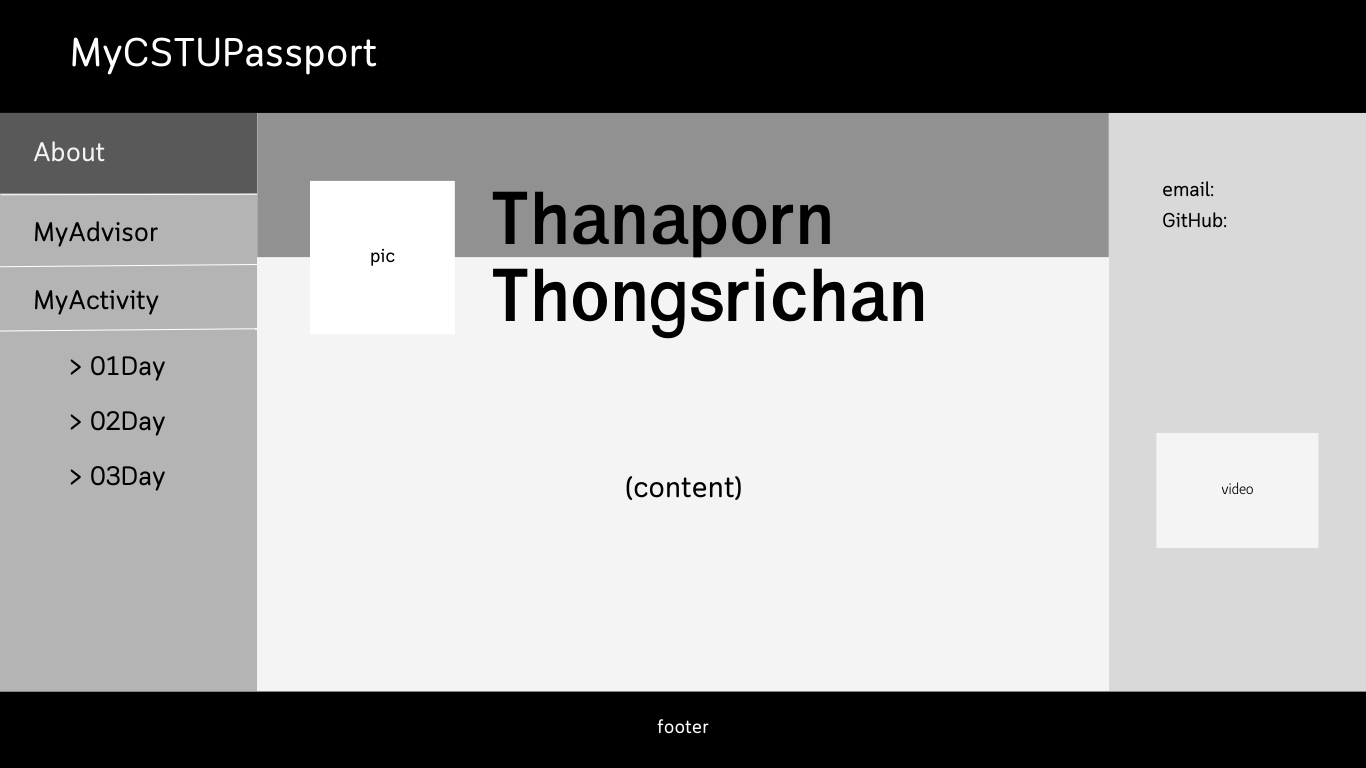
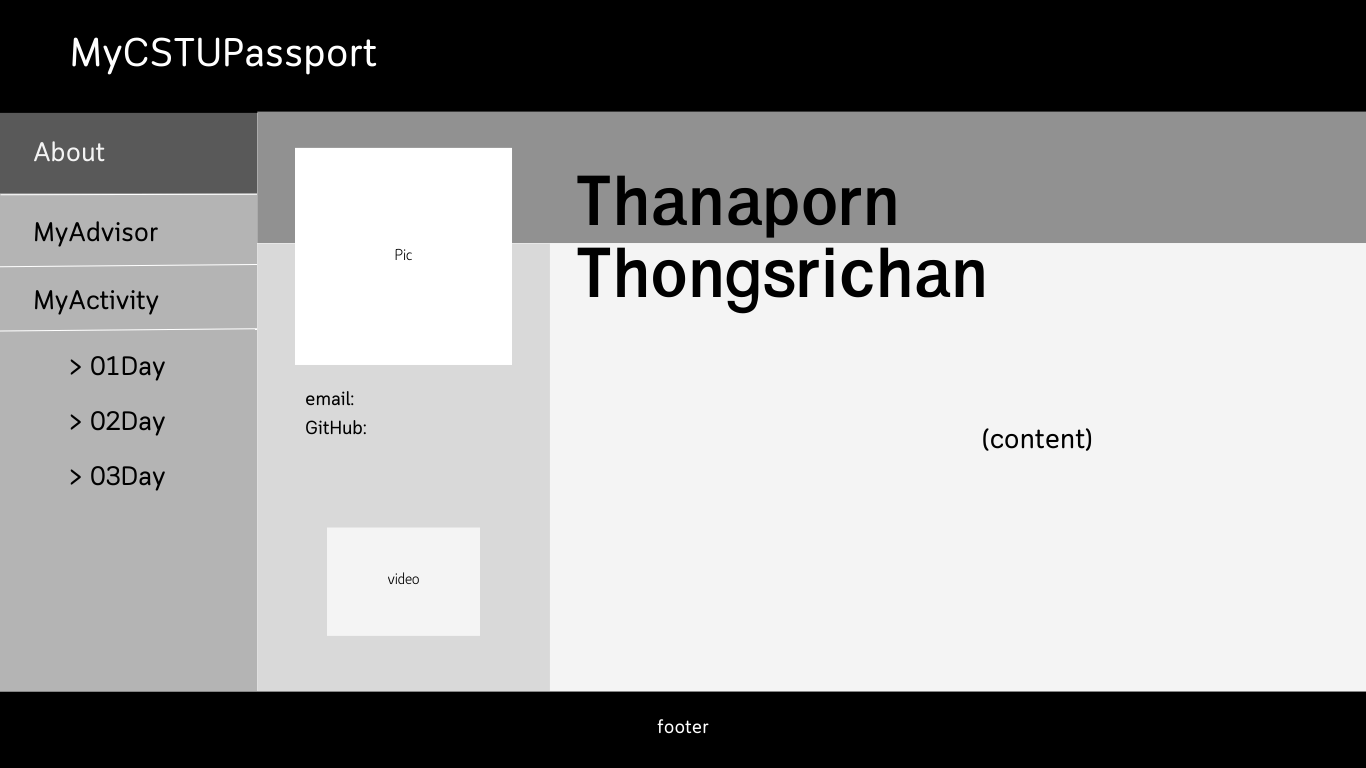
Responsive Web HW

diff --git a/index.html b/index.html
@@ -2,107 +2,112 @@
 <html>
 
     <head>
+        <meta name="viewport" content="width=device-width, initial-scale=1.0">
         <title>My CSTU Passport │ Homepage</title>
         <link rel="stylesheet" href="css/mystyle.css" type="text/css">
     </head>
 
-    <body> <!--rgb(242, 242, 242)">-->
-        <ul id="nav">
-            <li id="linav"><a href="#home" target="_self">My CSTU Passport</a></li>
-            <li id="linav"><a href="html/myAdvisor.html" target="_self">Advisor</a></li>
-            <li id="linav"><a href="html/myActivities.html" target="_self">Activities</a></li>
-            <li id="linav"><a class="active" href="index.html" target="_self">About</a></li>
-            <li id="linav" style="float:right"><a href="https://www.google.com" target="_blank">Search</a></li>
-        </ul>
-
-        <div id="div1">
+    <body>
+        <div id="head">
+            <h1>MyCSTUPassport</h1>
         </div>
-
-        <div class="row">
-            <div class="side">
-                <div id="pic">
-                    <img src="image/mypic.jpg" alt="mypic" width="180" height="180">
-                </div>
-                <br><br>
-                <h3 style="text-align: center;">Hello!<br>Welcome to my homepage <span> &lt;3 </span></h3><br><br>
-                <p><b>Email:</b> thanaporn.thongs@dome.tu.ac.th</p><br>
-                <p><b>GitHub:</b> .</p><br>
-                <div id="vid"><video src="VDO/myvideo.mp4" width="200" height="200" controls> Oops! Sorry, can't play this video<span>:&#40;</span></video></div>
-                <div id="block">
-                </div>
-            </div>
-
-            <div class="main">
-                <div class="name">
-                    <p style="font-size: 20px; color: #f1f1f1;">It's me</p>
-                    <span><b>Thanaporn</b></span><br>
-                    <b>Thongsrichan</b></span>
-                    <!--<h1 class="name">Thanaporn
-                       <br>Thongsrichan
-                    </h1>-->
-                </div>
-                <div class="content">
-                    <h2 style="color: grey;">&lt;About me&gt;</h2><br>
-                    <p>
-                        <code style="font-size: large;">Hello!</code> , My name is <span>Thanaporn Thongsrichan</span>. You can
-                        call me Khaow (&#127806;) for nickname.
-                        (I'm not sure how to write my nickname because there are many ways to write :/ Sometimes I think I want
-                        to turn it into Rice &#x2012; just think it's easy to write in English and still have the same meaning
-                        &#x2012; but it's just random thought anyway ¯\_(シ)_/¯)
-                        <br>I'm a <a href="https://cs.sci.tu.ac.th/" target="_blank" style="color: #dc9703;">Computer
-                            Science</a> student in the Faculty of Science and Technology
-                        at <a href="https://tu.ac.th" target="_blank" style="color: crimson;">Thammasat University</a>.<br>
-                    </p>
+        <div class="col-3 col-s-3">
+            <ul id="menu">
+                <li id="linav"><a href="#home" target="_self">My CSTU Passport</a></li>
+                <li id="linav"><a href="html/myAdvisor.html" target="_self">Advisor</a></li>
+                <li id="linav"><a href="html/myActivities.html" target="_self">Activities</a></li>
+                <li id="linav"><a class="active" href="index.html" target="_self">About</a></li>
+                <div></div>
+            </ul>
+        </div>
+        <div id="content">
+            <div id="div1"></div>
+            <div class="row">
+                <div class="side col-6 col-s-9">
+                    <div id="pic">
+                        <img src="image/mypic.jpg" alt="mypic" width="180" height="180">
+                    </div>
+                    <br><br>
+                    <h3 style="text-align: center;">Hello!<br>Welcome to my homepage <span> &lt;3 </span></h3><br><br>
+                    <p><b>Email:</b> thanaporn.thongs@dome.tu.ac.th</p><br>
+                    <p><b>GitHub:</b> .</p><br>
+                    <div id="vid"><video src="VDO/myvideo.mp4" width="200" height="200" controls> Oops! Sorry, can't play this video<span>:&#40;</span></video></div>
+                    <div id="block">
+                    </div>
                 </div>
 
-                <div class="content">
-                    <p>
-                        These are a few things that I'm interested in:
-                        <ul class="li">
-                            <li>Coding</li>
-                            <li>Web Design</li>
-                            <li>Data Science</li>
-                            <li>Graphic Design</li>
-                            <li>Information Technology</li>
-                            <li>etc.</li>
-                        </ul><br>
+                <div class="main col-3 col-s-12">
+                    <div class="name">
+                        <p style="font-size: 20px; color: #f1f1f1;">It's me</p>
+                        <span><b>Thanaporn</b></span><br>
+                        <b>Thongsrichan</b></span>
+                        <!--<h1 class="name">Thanaporn
+                        <br>Thongsrichan
+                        </h1>-->
+                    </div>
+                    <div class="content">
+                        <h2 style="color: grey;">&lt;About me&gt;</h2><br>
+                        <p>
+                            <code style="font-size: large;">Hello!</code> , My name is <span>Thanaporn Thongsrichan</span>. You can
+                            call me Khaow (&#127806;) for nickname.
+                            (I'm not sure how to write my nickname because there are many ways to write :/ Sometimes I think I want
+                            to turn it into Rice &#x2012; just think it's easy to write in English and still have the same meaning
+                            &#x2012; but it's just random thought anyway ¯\_(シ)_/¯)
+                            <br>I'm a <a href="https://cs.sci.tu.ac.th/" target="_blank" style="color: #dc9703;">Computer
+                                Science</a> student in the Faculty of Science and Technology
+                            at <a href="https://tu.ac.th" target="_blank" style="color: crimson;">Thammasat University</a>.<br>
+                        </p>
+                    </div>
 
-                        Want to know more about me? <em style="color: gray;">Click below!</em><br>
-                        <details class="outset">
-                            <summary id="click">
-                                [Here are some of my favorite things!]
-                            </summary>
+                    <div class="content">
+                        <p>
+                            These are a few things that I'm interested in:
                             <ul class="li">
-                                <details class="under"><summary>[Hobbies]</summary>
-                                    <ul>
-                                        <li>Playing Video Games</li>
-                                        <li>Board Games (beginner)</li>
-                                        <li>Photography (beginner)</li>
-                                        <li>Drawing (not often lately)</li>
-                                    </ul></details>
-                                <li>Sleeping</li>
-                                <li>Listen to musics</li>
-                                <li>Wacthing movies</li>
-                                <li>Green tea</li>
-                                <li>Animals</li>
-                            </ul>
-                        </details>
-                    </p>
+                                <li>Coding</li>
+                                <li>Web Design</li>
+                                <li>Data Science</li>
+                                <li>Graphic Design</li>
+                                <li>Information Technology</li>
+                                <li>etc.</li>
+                            </ul><br>
+
+                            Want to know more about me? <em style="color: gray;">Click below!</em><br>
+                            <details class="outset">
+                                <summary id="click">
+                                    [Here are some of my favorite things!]
+                                </summary>
+                                <ul class="li">
+                                    <details class="under"><summary>[Hobbies]</summary>
+                                        <ul>
+                                            <li>Playing Video Games</li>
+                                            <li>Board Games (beginner)</li>
+                                            <li>Photography (beginner)</li>
+                                            <li>Drawing (not often lately)</li>
+                                        </ul></details>
+                                    <li>Sleeping</li>
+                                    <li>Listen to musics</li>
+                                    <li>Wacthing movies</li>
+                                    <li>Green tea</li>
+                                    <li>Animals</li>
+                                </ul>
+                            </details>
+                        </p>
+                    </div>
+                    <br>
+                    <div id="q"><q>
+                        <em><br>
+                            'Cause there were pages turned with the bridges burned<br>
+                            Everything you lose is a step you take<br>
+                            So make the friendship bracelets<br>
+                            Take the moment and taste it<br>
+                            You've got no reason to be afraid</em><br>
+                    </q><br>
+                    <span>-<em>You're on Your Own, Kid </em> - Taylor Swift</span></div><br>
+                    <figure>
+                        <img src="https://media.tenor.com/VOf_IsXVKfsAAAAC/meme-elmo.gif" alt="enjoy!" width="120" height="100">
+                        <p><strong>Have a great day!</strong></p>
+                    </figure>
                 </div>
-                <br><br><br>
-                <div id="q"><q>
-                    <em><br>
-                        'Cause there were pages turned with the bridges burned<br>
-                        Everything you lose is a step you take<br>
-                        So make the friendship bracelets<br>
-                        Take the moment and taste it<br>
-                        You've got no reason to be afraid</em><br>
-                </q><br>
-                <span>-<em>You're on Your Own, Kid </em> - Taylor Swift</span></div><br>
-                <figure>
-                    <img src="https://media.tenor.com/VOf_IsXVKfsAAAAC/meme-elmo.gif" alt="enjoy!" width="120" height="100">
-                    <p><strong>Have a great day!</strong></p>
-                </figure>
             </div>
         </div>
         <footer>
@@ -113,5 +118,6 @@
             </p>
         </footer>
     </body>
+    
 
 </html>

diff --git a/css/mystyle.css b/css/mystyle.css
@@ -5,26 +5,29 @@
     font-family: Arial, Helvetica, sans-serif;
 }
 
-/*** navigation bar ***/
-#nav {
+/*** (side) navigation bar ***/
+#menu {
     list-style-type: none;
     margin: 0;
     padding: 0;
-    overflow: hidden;
     background-color: #1b1b1b;
+    /*width: 25%;*/
+    float: left;
+    overflow: auto;
 }
 
+#menu div {
+    background-color: #1b1b1b;
+    width: auto;
+}
 /* <a> after class=linav will appear following the below command */
 #linav a {
-    float: left;
     display: block;
     color: white;
-    text-align: center;
     padding: 15px;
     font-family: Arial, "Helvetica Neue", Helvetica, sans-serif;
     font-size: 15px;
     text-decoration: none;
-    overflow: hidden;
 }
 
 #linav a:hover:not(.active) {
@@ -35,8 +38,25 @@
     background-color: black;
 }
 
+@media (min-width: 400px) {
+    #menu {
+      flex-direction: column;
+    }
+}
+
 /*** end navigation bar ***/
 
+#head {
+    background-color: black;
+    width: 100%;
+    padding: 30px;
+    color: white;
+}
+
+#content {
+    width: 75%;
+    float: left;
+}
 
 #div1 {
     background-color: #aaa;
@@ -154,10 +174,10 @@ footer {
     text-align: center;
     background-color: #1a1a1a;
     color: whitesmoke;
-    padding: 15px;
+    padding: 20px;
     font-size: 15px;
     bottom: 10px;
-    width: 100%;
+    clear: both;
 }
 
 #alink {
@@ -178,4 +198,44 @@ footer {
 }
 .under:hover {
     background-color: #e9e9e9;
+}
+
+/***********Grid View***********/
+/* mobile phones */
+@media only screen and (min-width: 425px) {
+[class*="col-"] {
+    width: 100%;
+}
+}
+
+/* tablets */
+@media only screen and (min-width: 600px) {
+    .col-s-1 {width: 8.33%;}
+    .col-s-2 {width: 16.66%;}
+    .col-s-3 {width: 25%;}
+    .col-s-4 {width: 33.33%;}
+    .col-s-5 {width: 41.66%;}
+    .col-s-6 {width: 50%;}
+    .col-s-7 {width: 58.33%;}
+    .col-s-8 {width: 66.66%;}
+    .col-s-9 {width: 75%;}
+    .col-s-10 {width: 83.33%;}
+    .col-s-11 {width: 91.66%;}
+    .col-s-12 {width: 100%;}
+}
+
+/* desktop: */
+@media only screen and (max-width: 768px) {
+    .col-1 {width: 8.33%;}
+    .col-2 {width: 16.66%;}
+    .col-3 {width: 25%;}
+    .col-4 {width: 33.33%;}
+    .col-5 {width: 41.66%;}
+    .col-6 {width: 50%;}
+    .col-7 {width: 58.33%;}
+    .col-8 {width: 66.66%;}
+    .col-9 {width: 75%;}
+    .col-10 {width: 83.33%;}
+    .col-11 {width: 91.66%;}
+    .col-12 {width: 100%;}
 }
